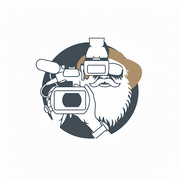
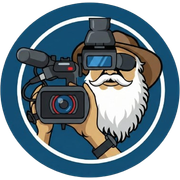
Update application assets, layout, and components

diff --git a/scripts/generate-icons.js b/scripts/generate-icons.js
@@ -1,0 +1,59 @@
+const sharp = require('sharp');
+const fs = require('fs');
+const path = require('path');
+
+const SOURCE_FILE = path.join(__dirname, '../public/vp-logo.png');
+const PUBLIC_DIR = path.join(__dirname, '../public');
+
+async function generateIcons() {
+    if (!fs.existsSync(SOURCE_FILE)) {
+        console.error('Source file not found:', SOURCE_FILE);
+        process.exit(1);
+    }
+
+    console.log('Processing icons from:', SOURCE_FILE);
+
+    // 1. Generate Main Logo (Optimized for usage in app) - 512x512
+    await sharp(SOURCE_FILE)
+        .trim() // Remove transparent border
+        .resize(512, 512, { fit: 'contain', background: { r: 0, g: 0, b: 0, alpha: 0 } })
+        .toFile(path.join(PUBLIC_DIR, 'logo.png'));
+    console.log('Generated public/logo.png');
+
+    // 2. Icon 192 (PWA)
+    await sharp(SOURCE_FILE)
+        .trim() // Remove transparent border
+        .resize(192, 192, { fit: 'contain', background: { r: 0, g: 0, b: 0, alpha: 0 } })
+        .toFile(path.join(PUBLIC_DIR, 'icon-192.png'));
+    console.log('Generated public/icon-192.png');
+
+    // 3. Icon 512 (PWA)
+    await sharp(SOURCE_FILE)
+        .trim() // Remove transparent border
+        .resize(512, 512, { fit: 'contain', background: { r: 0, g: 0, b: 0, alpha: 0 } })
+        .toFile(path.join(PUBLIC_DIR, 'icon-512.png'));
+    console.log('Generated public/icon-512.png');
+
+    // 4. Apple Touch Icon (180x180)
+    await sharp(SOURCE_FILE)
+        .trim() // Remove transparent border
+        .resize(180, 180, { fit: 'contain', background: { r: 0, g: 0, b: 0, alpha: 0 } })
+        .toFile(path.join(PUBLIC_DIR, 'apple-touch-icon.png'));
+    console.log('Generated public/apple-touch-icon.png');
+
+    // 5. Favicon (png) - 32x32
+    await sharp(SOURCE_FILE)
+        .trim() // Remove transparent border
+        .resize(32, 32, { fit: 'contain', background: { r: 0, g: 0, b: 0, alpha: 0 } })
+        .toFile(path.join(PUBLIC_DIR, 'favicon.png'));
+    console.log('Generated public/favicon.png');
+
+    // 6. Favicon (ico) - often requested, but png is mostly fine for modern. Let's stick to png as per existing file list 'favicon.png'.
+
+    console.log('All icons generated successfully!');
+}
+
+generateIcons().catch(err => {
+    console.error('Error generating icons:', err);
+    process.exit(1);
+});

diff --git a/src/components/SplashScreen.tsx b/src/components/SplashScreen.tsx
@@ -1,0 +1,45 @@
+import React, { useEffect, useState } from 'react';
+
+/**
+ * A premium, full-screen splash screen component.
+ * It displays the brand logo with a sleek breathing animation.
+ * Used to hide the initial auth check and resource loading states.
+ */
+export const SplashScreen = () => {
+    // Optional: Local state to handle "exit" animations if we wanted to get fancy later
+    // For now, simple mounting/unmounting is sufficient for Next.js
+
+    return (
+        <div className="fixed inset-0 z-50 flex flex-col items-center justify-center bg-background">
+            <div className="flex flex-col items-center animate-in fade-in zoom-in-95 duration-500">
+                {/* Logo Container */}
+                <div className="relative w-28 h-28 mb-8">
+                    {/* Ring Animation */}
+                    <div className="absolute inset-0 rounded-full border-4 border-t-primary border-r-transparent border-b-primary/30 border-l-transparent animate-spin duration-1000" />
+
+                    {/* Logo Image */}
+                    <div className="absolute inset-4 rounded-full overflow-hidden flex items-center justify-center shadow-lg shadow-primary/20 animate-pulse bg-white/10 backdrop-blur-sm">
+                        <img
+                            src="/logo.png"
+                            alt="Brand Logo"
+                            className="w-full h-full object-contain p-2"
+                        />
+                    </div>
+                </div>
+
+                {/* Brand Name */}
+                <h1 className="text-2xl font-bold tracking-tight bg-gradient-to-r from-primary to-violet-600 bg-clip-text text-transparent animate-pulse">
+                    VP App
+                </h1>
+
+                {/* Subtle Loading Text */}
+                <p className="mt-2 text-xs font-medium text-muted-foreground/60 uppercase tracking-widest animate-pulse">
+                    Loading
+                </p>
+            </div>
+
+            {/* Background Mesh Effect (Matches Landing Page vibe but subtler) */}
+            <div className="absolute inset-0 -z-10 bg-[radial-gradient(ellipse_at_center,_var(--tw-gradient-stops))] from-primary/5 via-background to-background opacity-40" />
+        </div>
+    );
+};

diff --git a/src/app/page.tsx b/src/app/page.tsx
@@ -7,22 +7,32 @@ import { useAuth } from '@/lib/auth';
 import { Button } from '@/components/Button';
 import { Card } from '@/components/Card';
 
+import { SplashScreen } from '@/components/SplashScreen';
+
 export default function Home() {
-  const { user } = useAuth();
+  const { user, isLoading } = useAuth();
   const router = useRouter();
 
   React.useEffect(() => {
-    if (user) {
+    // PREFETCHING: While we wait for auth, let's silently download the code for the main apps.
+    // This makes the transition instant once we know where to send them.
+    if (isLoading) {
+      router.prefetch('/dashboard');
+      router.prefetch('/checkout');
+    }
+
+    if (!isLoading && user) {
       if (user.role === 'MANAGER' || user.role === 'ADMIN') {
         router.push('/dashboard');
       } else {
         router.push('/checkout');
       }
     }
-  }, [user, router]);
+  }, [user, isLoading, router]);
 
-  if (user) {
-    return null; // Or a loading spinner
+  // Show the premium splash screen while checking auth state
+  if (isLoading || user) {
+    return <SplashScreen />;
   }
 
   return (
@@ -55,11 +65,11 @@ export default function Home() {
                   Get Started
                 </Button>
               </Link>
-              <Link href="/about" className="w-full sm:w-auto">
+              {/* <Link href="/about" className="w-full sm:w-auto">
                 <Button variant="secondary" size="lg" className="w-full sm:w-auto rounded-full px-8 sm:px-10 text-base sm:text-[17px] bg-white/50 backdrop-blur-sm border-white/40">
                   Learn more
                 </Button>
-              </Link>
+              </Link> */}
             </div>
 
             {/* Floating Elements for Visual Interest - Hidden on mobile for cleaner look */}

diff --git a/src/components/Sidebar.tsx b/src/components/Sidebar.tsx
@@ -42,7 +42,7 @@ export const Sidebar = () => {
                         <path strokeLinecap="round" strokeLinejoin="round" d="M15 10l4.553-2.276A1 1 0 0121 8.618v6.764a1 1 0 01-1.447.894L15 14M5 18h8a2 2 0 002-2V8a2 2 0 00-2-2H5a2 2 0 00-2 2v8a2 2 0 002 2z" />
                     </svg>
                 </div>
-                {!isCollapsed && <span className="font-semibold text-[17px] text-foreground">Vpub App</span>}
+                {!isCollapsed && <span className="font-semibold text-[17px] text-foreground">VP App</span>}
             </div>
 
             {/* Navigation */}

diff --git a/src/app/login/page.tsx b/src/app/login/page.tsx
@@ -64,7 +64,7 @@ export default function LoginPage() {
             <div className="w-full max-w-sm space-y-6">
                 <div className="text-center">
                     <h1 className="text-3xl font-bold tracking-tight bg-gradient-to-r from-primary to-violet-600 bg-clip-text text-transparent">
-                        Vpub App
+                        VP App
                     </h1>
                     <p className="mt-2 text-sm text-muted-foreground">
                         {isLogin ? 'Sign in to your account' : 'Create a new account'}

diff --git a/src/app/layout.tsx b/src/app/layout.tsx
@@ -18,13 +18,18 @@ export const viewport: Viewport = {
 };
 
 export const metadata: Metadata = {
-  title: "Vpub App",
+  title: "VP App",
   description: "Manage equipment checkout and returns",
   manifest: "/manifest.json",
+  icons: {
+    icon: '/favicon.png',
+    shortcut: '/favicon.png',
+    apple: '/apple-touch-icon.png',
+  },
   appleWebApp: {
     capable: true,
     statusBarStyle: 'default',
-    title: 'Vpub App',
+    title: 'VP App',
   },
   formatDetection: {
     telephone: false,

diff --git a/src/app/transactions/page.tsx b/src/app/transactions/page.tsx
@@ -108,9 +108,7 @@ export default function TransactionsPage() {
 *Date:* ${date}
 
 *Equipment List:*
-${itemNames.map(name => `• ${name}`).join('\n')}${txn.notes ? `\n\n*Notes / Other Items:*\n${txn.notes}` : ''}
-
-_Generated via VP App_`;
+${itemNames.map(name => `• ${name}`).join('\n')}${txn.notes ? `\n\n*Notes / Other Items:*\n${txn.notes}` : ''}`;
     };
 
     const handleShareWhatsApp = (e: React.MouseEvent, txn: Transaction) => {

diff --git a/src/lib/whatsapp.ts b/src/lib/whatsapp.ts
@@ -33,8 +33,6 @@ export const formatWhatsAppMessage = (shoot: Shoot, assignments: Assignment[], u
         message += `- No crew assigned yet\n`;
     }
 
-    message += `\n_Generated via VP App_`;
-
     return message;
 };
 
